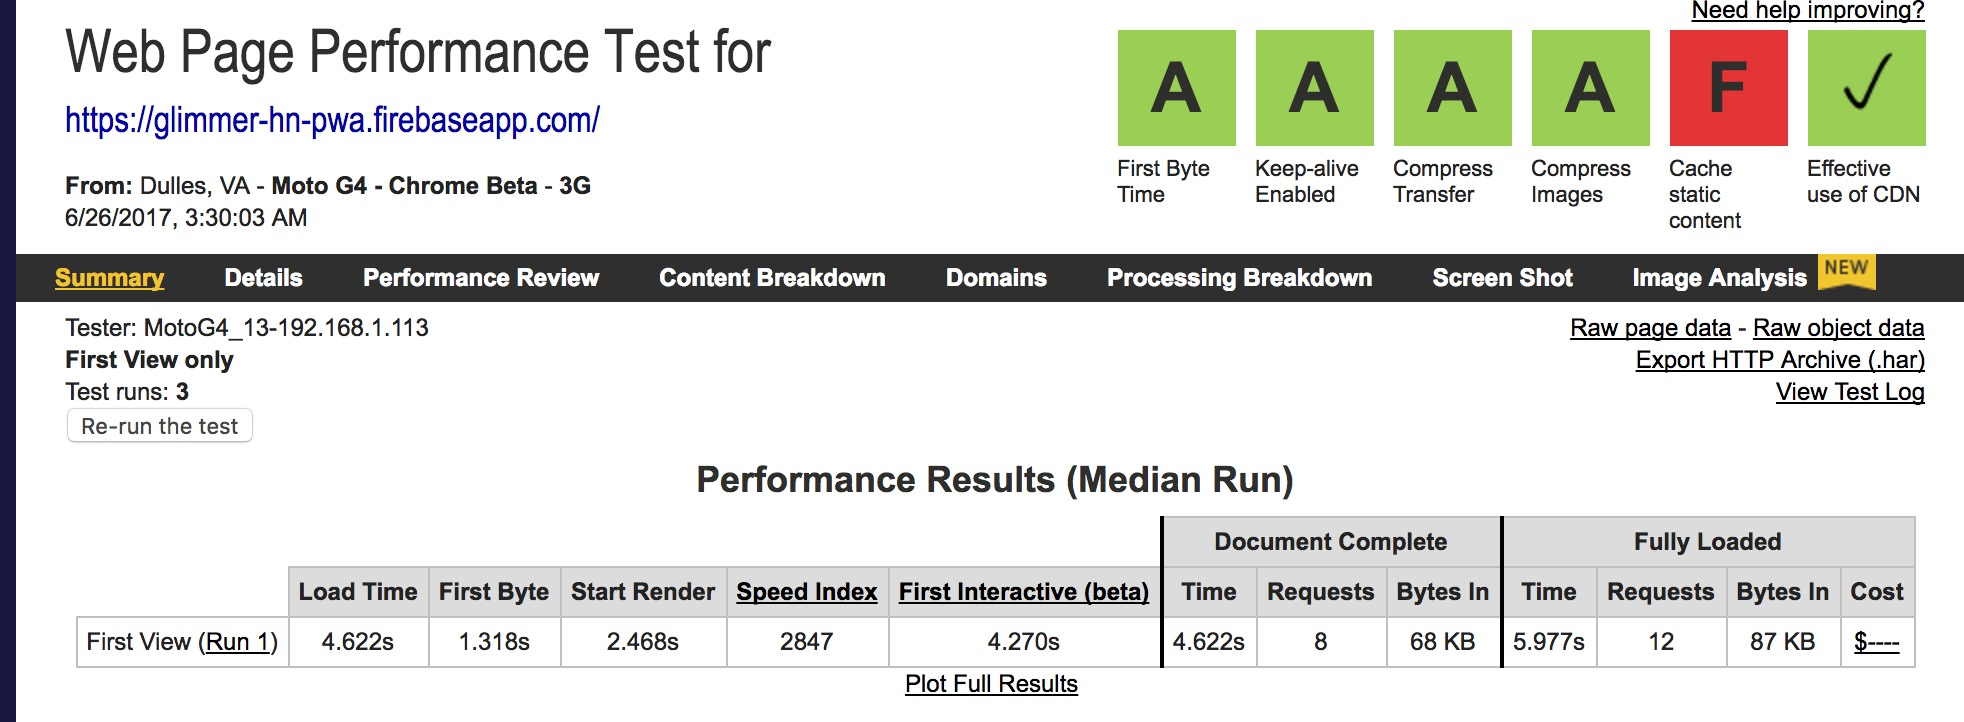
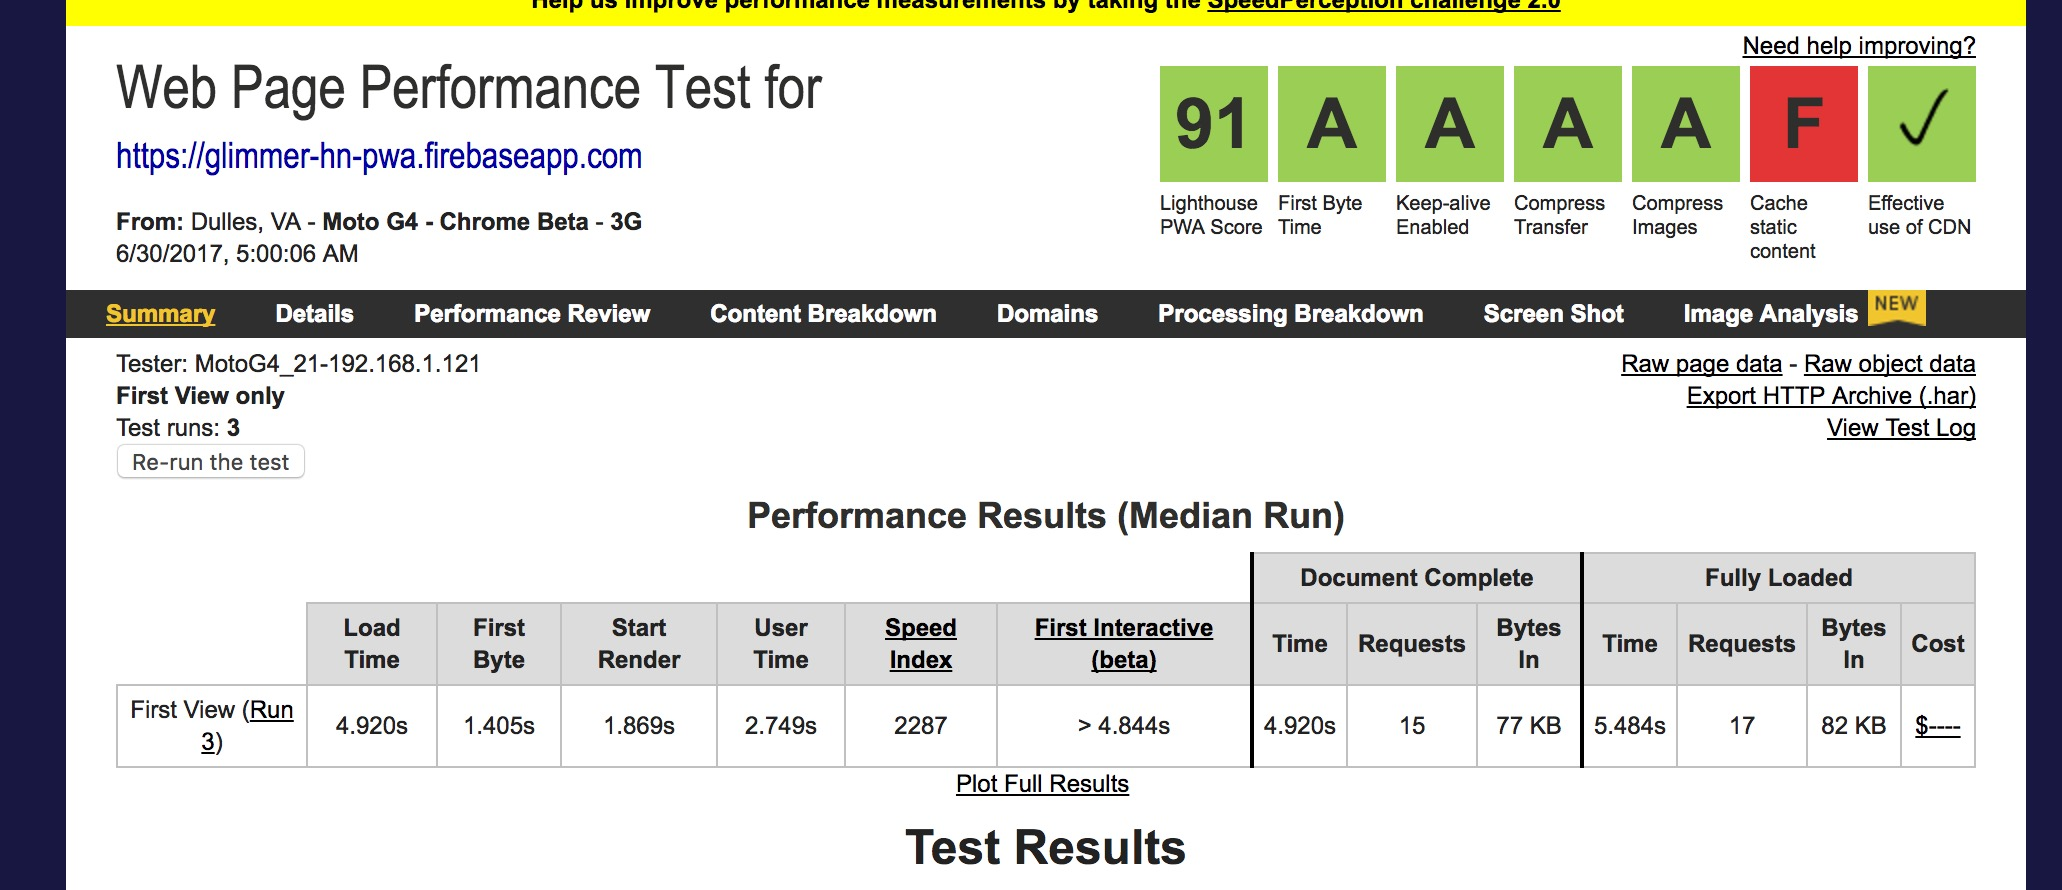
ready to announce

diff --git a/README.md b/README.md
@@ -1,11 +1,11 @@
-# Glimmer Hacker News Progressive Web App
+# Glimmer.js Hacker News Progressive Web App
 
 This is an implementation of a progressive web app with Glimmer (Ember template engine). 
 Here is the result
 
 with webpagetest on 3G: 
 
-[Performance Results (webpagetest):](https://www.webpagetest.org/result/170626_00_46d2a10b1a22cd6edc3e99fa6b403bde/)
+[Performance Results (webpagetest):](https://www.webpagetest.org/result/170630_KQ_b029f2c4ecfa24fd6c8932cc6c2d04b2/)
 [![webpagetest](webpagetest.jpg)](https://glimmer-hn-pwa.firebaseapp.com/)
 
 and with Lighthouse 2.1.0
@@ -13,20 +13,12 @@ and with Lighthouse 2.1.0
 [![Lighthouse 2.1.0](lighthouse.jpg)](https://glimmer-hn-pwa.firebaseapp.com/)
 
 ## TODO
-* Add next and previous function to see more news
 * Consider using official api to have realtime update
 * Collapsible comment threads, with child counts
 * Last visit details for stories are cached in localStorage
-* Consider adding animations 
-
-## Prerequisites
-
-You will need the following things properly installed on your computer.
-
-* [Git](https://git-scm.com/)
-* [Node.js](https://nodejs.org/) (with NPM)
-* [Yarn](https://yarnpkg.com/en/)
-* [Ember CLI](https://ember-cli.com/)
+* try to optimize more
+* Consider fast-boot
+* Remove SW from Development 
 
 ## Installation
 
@@ -36,15 +28,12 @@ You will need the following things properly installed on your computer.
 
 ## Running / Development
 
-* `ember serve`
+* `npm start`
 * Visit your app at [http://localhost:4200](http://localhost:4200).
 
 ### Building
 
 * `ember build` (development)
-* `ember build --environment production` (production)
+* `ember build:prod` (production)
 
-## Further Reading / Useful Links
-
-* [glimmerjs](http://github.com/tildeio/glimmer/)
-* [ember-cli](https://ember-cli.com/)
+## Contributors

diff --git a/CONTRIBUTING.md b/CONTRIBUTING.md
@@ -1,0 +1,19 @@
+# Contributing
+
+Thank you for your interest in contributing! Please feel free to put up a PR for any issue or feature request.
+Even if you have little to no experience with Glimmer, I'll be more than happy to help. :)
+
+## Setup
+
+1. Fork the repo
+2. Clone your fork
+3. Make a branch for your feature or bug fix
+4. Run `npm start` and open `localhost:4200` in a browser
+5. Work your magic
+6. Add yourself to the [contributor's list](https://github.com/mhadaily/glimmer-hn-pwa#contributors) in the README!
+7. Commit your changes and reference the issue you're addressing (for example: `git commit -am 'Commit message. Closes #5'`)
+8. Push your branch to your fork
+9. Create a pull request from your branch on your fork to `master` on this repo
+10. Have your branch get merged in! :star2:
+
+If you experience a problem at any point, please don't hesitate to file an issue or send me a message!
